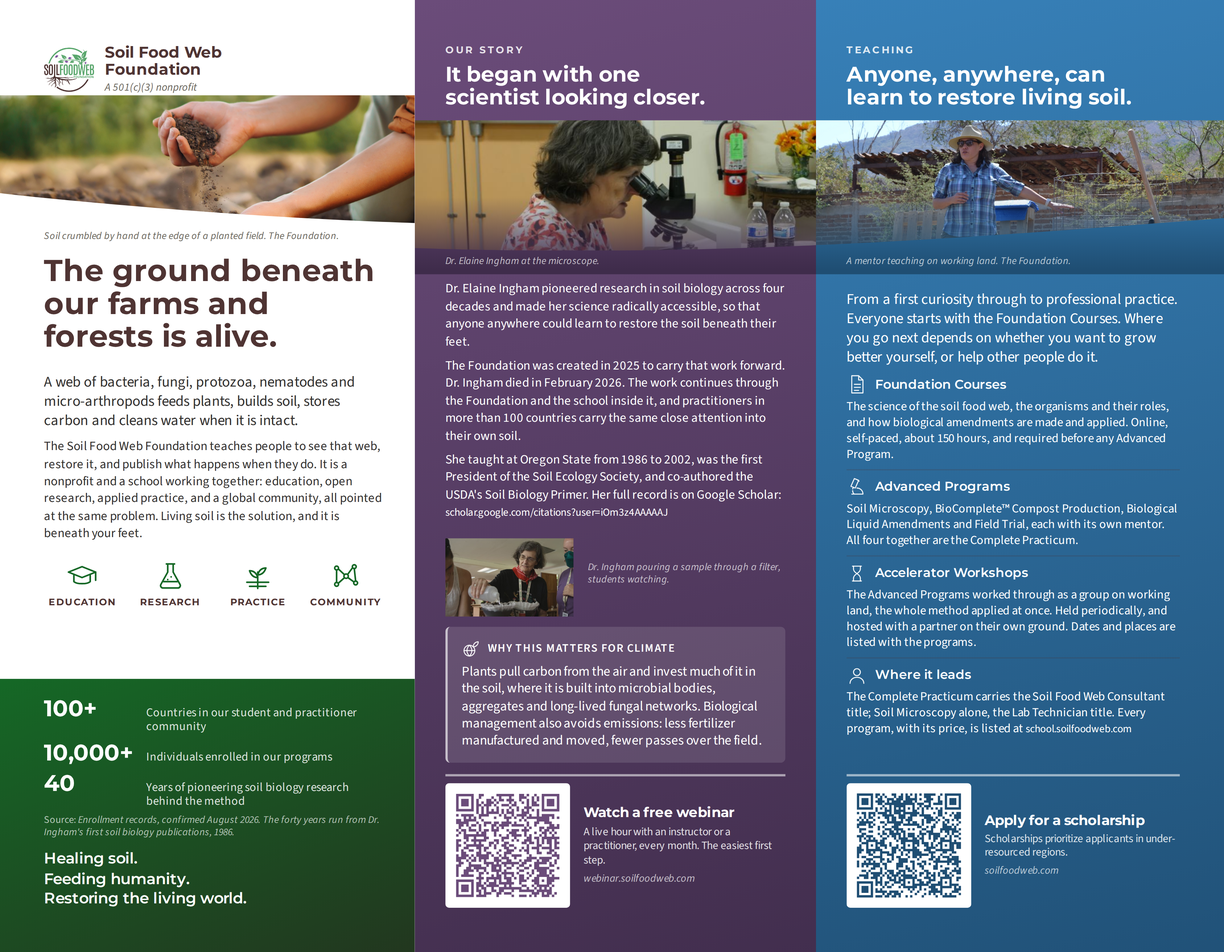
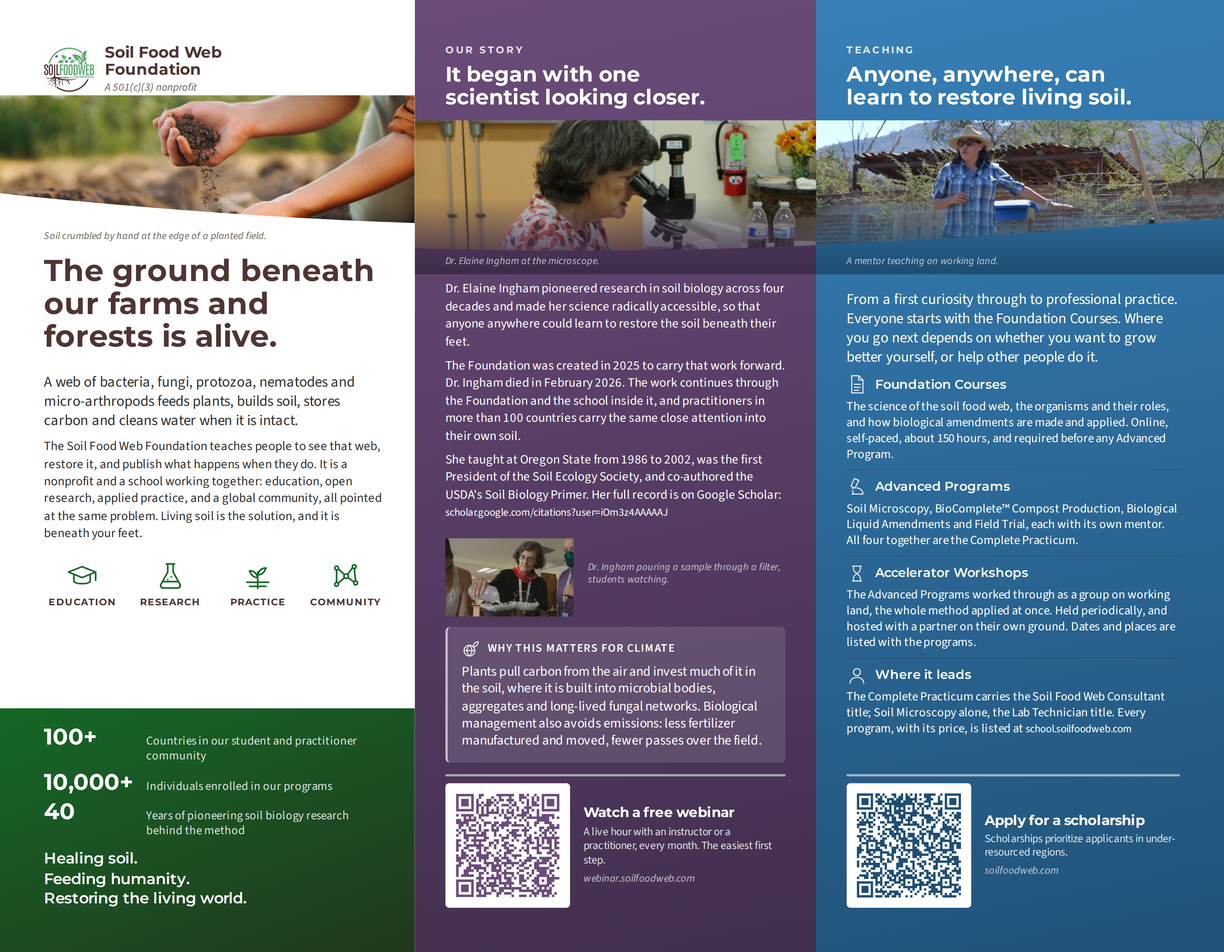
Trifold: print copy, not working copy
The spade read as a knife because the blade was a thin parallelogram on a
diagonal. Redrawn upright: a D handle, a hand's grip on the shaft, and a
broad blade standing in the ground. Judged on the green at 0.30in, which is
where it prints, not at 56px.

The card on the research panel loses its "On claims" standfirst and its
shield. The paragraph says what it says; the label was a heading for a
statement that does not need announcing.

Every source line is out of the brochure. "Enrollment records, confirmed
August 2026" is provenance for the website, where a reader can follow it
and where the rule that every number carries its source belongs. On a
printed brochure it is an internal note in public, and this goes to a
printer. The website keeps its source lines; the trifold has none.

Two other things that read as working copy rather than print went with
them. The photographs no longer credit "The Foundation" in the Foundation's
own brochure, and the research link no longer hedges with "each with a link
to its source where one exists". Joy Kaluf's credit stays, because that one
is a real third party.

All four codes decode from the 300 DPI render. No panel overflows.

Claude-Session: https://claude.ai/code/session_01Dzy7foEQfuybsE73DxJgN3

Changed region(s): [[0.0, 0.6872, 0.3422, 0.8747]]

diff --git a/Trifold Design/build/inside.html b/Trifold Design/build/inside.html
@@ -43,7 +43,7 @@
   <symbol id="i-question" viewBox="0 0 24 24"><circle cx="12" cy="12" r="9"/><path d="M9.5 9.6a2.6 2.6 0 0 1 5.1.7c0 1.7-2.5 2.2-2.5 3.9M12 17.3v.4"/></symbol>
   <symbol id="i-globe" viewBox="0 0 24 24"><circle cx="10" cy="14" r="6.6"/><path d="M3.4 14h13.2"/><path d="M10 7.4c2 1.9 3 4.1 3 6.6s-1 4.7-3 6.6c-2-1.9-3-4.1-3-6.6s1-4.7 3-6.6z"/><path d="M14.6 9.4c0-3.4 2.7-6.2 6.2-6.2 0 3.4-2.7 6.2-6.2 6.2z"/></symbol>
   <symbol id="i-hourglass" viewBox="0 0 24 24"><path d="M6.8 3.4h10.4M6.8 20.6h10.4"/><path d="M8 3.4v3.3c0 2 1.6 3.7 4 5.3 2.4-1.6 4-3.3 4-5.3V3.4"/><path d="M8 20.6v-3.3c0-2 1.6-3.7 4-5.3 2.4 1.6 4 3.3 4 5.3v3.3"/></symbol>
-  <symbol id="i-dig" viewBox="0 0 24 24"><path d="M3.6 18h16.8M6.4 21h11.2"/><path d="M17.4 7.2 12.6 12"/><path d="M16.4 3.4c1.3-1.3 3.4-1.3 4.7 0s1.3 3.4 0 4.7l-1 1-4.7-4.7z"/><path d="M13.4 10.8 9.6 14.6c-1.2 1.2-1.2 3.1 0 4.3l4.3-4.3 2.4-2.4z"/></symbol>
+  <symbol id="i-dig" viewBox="0 0 24 24"><path d="M2.8 17.2h18.4M5.6 20.4h12.8"/><path d="M12 3.2a2.1 2.1 0 0 1 2.1 2.1v.3H9.9v-.3A2.1 2.1 0 0 1 12 3.2z"/><path d="M12 5.6v6.4"/><path d="M9.1 12h5.8v3.5c0 1.6-1.2 3-2.9 4-1.7-1-2.9-2.4-2.9-4z"/><path d="M9.9 8.2h4.2M9.9 9.9h4.2"/></symbol>
 </svg>
 <div class="sheet" id="sheet">
   <div class="spread">
@@ -63,13 +63,11 @@
 
       <figure class="figure figure--full figure--fade">
         <img src="/img/Test tubes with sample_.jpg" alt="" style="object-position:50% 50%; clip-path: polygon(0% 0%, 100% 0%, 100.00% 97.93%, 98.44% 97.76%, 96.88% 97.58%, 95.31% 97.40%, 93.75% 97.21%, 92.19% 97.02%, 90.62% 96.81%, 89.06% 96.61%, 87.50% 96.39%, 85.94% 96.17%, 84.38% 95.94%, 82.81% 95.71%, 81.25% 95.47%, 79.69% 95.22%, 78.12% 94.97%, 76.56% 94.71%, 75.00% 94.44%, 73.44% 94.17%, 71.88% 93.89%, 70.31% 93.61%, 68.75% 93.32%, 67.19% 93.02%, 65.62% 92.72%, 64.06% 92.42%, 62.50% 92.10%, 60.94% 91.78%, 59.38% 91.46%, 57.81% 91.13%, 56.25% 90.79%, 54.69% 90.45%, 53.12% 90.11%, 51.56% 89.75%, 50.00% 89.39%, 48.44% 89.03%, 46.88% 88.66%, 45.31% 88.29%, 43.75% 87.91%, 42.19% 87.53%, 40.62% 87.14%, 39.06% 86.74%, 37.50% 86.34%, 35.94% 85.94%, 34.38% 85.53%, 32.81% 85.11%, 31.25% 84.69%, 29.69% 84.27%, 28.12% 83.84%, 26.56% 83.41%, 25.00% 82.97%, 23.44% 82.52%, 21.88% 82.07%, 20.31% 81.62%, 18.75% 81.16%, 17.19% 80.69%, 15.62% 80.22%, 14.06% 79.75%, 12.50% 79.26%, 10.94% 78.77%, 9.38% 78.28%, 7.81% 77.77%, 6.25% 77.26%, 4.69% 76.74%, 3.12% 76.20%, 1.56% 75.63%, 0.00% 75.00%)">
-        <figcaption class="caption">Soil samples beside the microscope. The Foundation.</figcaption>
+        <figcaption class="caption">Soil samples beside the microscope.</figcaption>
       </figure>
 
       <p class="lede">Four decades of soil biology research, practiced by
         graduates in more than 100 countries on six continents.</p>
-      <p class="source">Enrollment records, confirmed
-        August 2026.</p>
 
       <h3>What the biology does when it is intact</h3>
       <div class="pillars">
@@ -92,8 +90,7 @@
       </ul>
 
       <div class="card">
-        <p class="pull"><b><svg class="icon" aria-hidden="true"><use href="#i-shield"/></svg>On claims</b>Each mechanism we teach is established
-          soil biology. How much of any one benefit a field sees depends on
+        <p class="pull">Each mechanism we teach is established soil biology. How much of any one benefit a field sees depends on
           climate, crop, starting condition and management. We publish results by
           site, with the person and the year, and say what one site cannot
           prove.</p>
@@ -103,13 +100,13 @@
         <img src="/img/uploads/testate-amoeba-40x.jpg" alt="">
         <figcaption class="caption">Testate amoeba, 40x. Photograph: Joy
           Kaluf. A count names what is there: bacteria, fungi, protozoa,
-          nematodes, micro-arthropods.</figcaption>
+          nematodes and micro-arthropods.</figcaption>
       </figure>
       <div class="spacer"></div>
 
       <hr class="hr hr--strong">
-      <p style="font-size:8pt">Dr. Ingham's publications, item by item, each
-        with a link to its source where one exists, on the Foundation's research
+      <p style="font-size:8pt">Dr. Ingham's publications, item by item, on the
+        Foundation's research
         page:<br><span class="url">soilfoodweb.com/research</span></p>
 
     </section>
@@ -124,7 +121,7 @@
 
       <figure class="figure figure--full figure--fade">
         <img src="/img/erc-rancho-cacachilas-agro.jpg" alt="" style="object-position:50% 58%; clip-path: polygon(0% 0%, 100% 0%, 100.00% 95.74%, 98.44% 95.95%, 96.88% 96.15%, 95.31% 96.35%, 93.75% 96.55%, 92.19% 96.74%, 90.62% 96.93%, 89.06% 97.11%, 87.50% 97.29%, 85.94% 97.46%, 84.38% 97.63%, 82.81% 97.79%, 81.25% 97.94%, 79.69% 98.09%, 78.12% 98.24%, 76.56% 98.38%, 75.00% 98.51%, 73.44% 98.64%, 71.88% 98.76%, 70.31% 98.88%, 68.75% 98.99%, 67.19% 99.10%, 65.62% 99.20%, 64.06% 99.29%, 62.50% 99.38%, 60.94% 99.46%, 59.38% 99.54%, 57.81% 99.61%, 56.25% 99.68%, 54.69% 99.74%, 53.12% 99.79%, 51.56% 99.84%, 50.00% 99.88%, 48.44% 99.92%, 46.88% 99.94%, 45.31% 99.97%, 43.75% 99.98%, 42.19% 100.00%, 40.62% 100.00%, 39.06% 100.00%, 37.50% 99.99%, 35.94% 99.98%, 34.38% 99.96%, 32.81% 99.93%, 31.25% 99.90%, 29.69% 99.86%, 28.12% 99.81%, 26.56% 99.76%, 25.00% 99.70%, 23.44% 99.64%, 21.88% 99.57%, 20.31% 99.49%, 18.75% 99.41%, 17.19% 99.32%, 15.62% 99.23%, 14.06% 99.13%, 12.50% 99.02%, 10.94% 98.90%, 9.38% 98.78%, 7.81% 98.66%, 6.25% 98.52%, 4.69% 98.38%, 3.12% 98.24%, 1.56% 98.09%, 0.00% 97.93%)">
-        <figcaption class="caption">Agroecology plots at Rancho Cacachilas. The Foundation.</figcaption>
+        <figcaption class="caption">Agroecology plots at Rancho Cacachilas.</figcaption>
       </figure>
 
       <p class="lede">The biology is universal; the practice is local. Every
@@ -135,8 +132,6 @@
         quarter acre in California. Eleven of them have filmed their own work
         and published it: where they started, what they changed, and what was
         measured after, at length and in their own words.</p>
-      <p class="source">The Foundation's own case study films, counted
-        September 2026.</p>
 
       <p>The scale runs from that quarter acre to ten thousand acres of corn
         and soy in Illinois, and a public park on Governors Island in New York.
@@ -181,7 +176,7 @@
 
       <figure class="figure figure--full figure--fade">
         <img src="/img/uploads/MAR Group Photo 2.jpg" alt="" style="object-position:50% 52%; clip-path: polygon(0% 0%, 100% 0%, 100.00% 75.00%, 98.44% 75.38%, 96.88% 75.75%, 95.31% 76.13%, 93.75% 76.51%, 92.19% 76.88%, 90.62% 77.26%, 89.06% 77.63%, 87.50% 78.01%, 85.94% 78.38%, 84.38% 78.76%, 82.81% 79.13%, 81.25% 79.50%, 79.69% 79.87%, 78.12% 80.24%, 76.56% 80.61%, 75.00% 80.98%, 73.44% 81.35%, 71.88% 81.72%, 70.31% 82.08%, 68.75% 82.44%, 67.19% 82.81%, 65.62% 83.17%, 64.06% 83.52%, 62.50% 83.88%, 60.94% 84.23%, 59.38% 84.59%, 57.81% 84.94%, 56.25% 85.29%, 54.69% 85.63%, 53.12% 85.98%, 51.56% 86.32%, 50.00% 86.66%, 48.44% 86.99%, 46.88% 87.33%, 45.31% 87.66%, 43.75% 87.99%, 42.19% 88.31%, 40.62% 88.63%, 39.06% 88.95%, 37.50% 89.27%, 35.94% 89.58%, 34.38% 89.89%, 32.81% 90.20%, 31.25% 90.50%, 29.69% 90.80%, 28.12% 91.10%, 26.56% 91.39%, 25.00% 91.68%, 23.44% 91.97%, 21.88% 92.25%, 20.31% 92.52%, 18.75% 92.80%, 17.19% 93.07%, 15.62% 93.33%, 14.06% 93.59%, 12.50% 93.85%, 10.94% 94.10%, 9.38% 94.35%, 7.81% 94.59%, 6.25% 94.83%, 4.69% 95.06%, 3.12% 95.29%, 1.56% 95.52%, 0.00% 95.74%)">
-        <figcaption class="caption">A workshop group around a finished compost pile. The Foundation.</figcaption>
+        <figcaption class="caption">A workshop group around a finished compost pile.</figcaption>
       </figure>
 
       <p>Dr. Ingham built the method to be handed on. Nothing in it depends on

diff --git a/Trifold Design/build/outside.html b/Trifold Design/build/outside.html
@@ -43,7 +43,7 @@
   <symbol id="i-question" viewBox="0 0 24 24"><circle cx="12" cy="12" r="9"/><path d="M9.5 9.6a2.6 2.6 0 0 1 5.1.7c0 1.7-2.5 2.2-2.5 3.9M12 17.3v.4"/></symbol>
   <symbol id="i-globe" viewBox="0 0 24 24"><circle cx="10" cy="14" r="6.6"/><path d="M3.4 14h13.2"/><path d="M10 7.4c2 1.9 3 4.1 3 6.6s-1 4.7-3 6.6c-2-1.9-3-4.1-3-6.6s1-4.7 3-6.6z"/><path d="M14.6 9.4c0-3.4 2.7-6.2 6.2-6.2 0 3.4-2.7 6.2-6.2 6.2z"/></symbol>
   <symbol id="i-hourglass" viewBox="0 0 24 24"><path d="M6.8 3.4h10.4M6.8 20.6h10.4"/><path d="M8 3.4v3.3c0 2 1.6 3.7 4 5.3 2.4-1.6 4-3.3 4-5.3V3.4"/><path d="M8 20.6v-3.3c0-2 1.6-3.7 4-5.3 2.4 1.6 4 3.3 4 5.3v3.3"/></symbol>
-  <symbol id="i-dig" viewBox="0 0 24 24"><path d="M3.6 18h16.8M6.4 21h11.2"/><path d="M17.4 7.2 12.6 12"/><path d="M16.4 3.4c1.3-1.3 3.4-1.3 4.7 0s1.3 3.4 0 4.7l-1 1-4.7-4.7z"/><path d="M13.4 10.8 9.6 14.6c-1.2 1.2-1.2 3.1 0 4.3l4.3-4.3 2.4-2.4z"/></symbol>
+  <symbol id="i-dig" viewBox="0 0 24 24"><path d="M2.8 17.2h18.4M5.6 20.4h12.8"/><path d="M12 3.2a2.1 2.1 0 0 1 2.1 2.1v.3H9.9v-.3A2.1 2.1 0 0 1 12 3.2z"/><path d="M12 5.6v6.4"/><path d="M9.1 12h5.8v3.5c0 1.6-1.2 3-2.9 4-1.7-1-2.9-2.4-2.9-4z"/><path d="M9.9 8.2h4.2M9.9 9.9h4.2"/></symbol>
 </svg>
 <div class="sheet" id="sheet">
   <div class="spread">
@@ -61,7 +61,7 @@
 
       <figure class="figure figure--full figure--fade">
         <img src="/img/handling-loose-soil.jpg" alt="" style="object-position:50% 52%; clip-path: polygon(0% 0%, 100% 0%, 100.00% 97.93%, 98.44% 97.76%, 96.88% 97.58%, 95.31% 97.40%, 93.75% 97.21%, 92.19% 97.02%, 90.62% 96.81%, 89.06% 96.61%, 87.50% 96.39%, 85.94% 96.17%, 84.38% 95.94%, 82.81% 95.71%, 81.25% 95.47%, 79.69% 95.22%, 78.12% 94.97%, 76.56% 94.71%, 75.00% 94.44%, 73.44% 94.17%, 71.88% 93.89%, 70.31% 93.61%, 68.75% 93.32%, 67.19% 93.02%, 65.62% 92.72%, 64.06% 92.42%, 62.50% 92.10%, 60.94% 91.78%, 59.38% 91.46%, 57.81% 91.13%, 56.25% 90.79%, 54.69% 90.45%, 53.12% 90.11%, 51.56% 89.75%, 50.00% 89.39%, 48.44% 89.03%, 46.88% 88.66%, 45.31% 88.29%, 43.75% 87.91%, 42.19% 87.53%, 40.62% 87.14%, 39.06% 86.74%, 37.50% 86.34%, 35.94% 85.94%, 34.38% 85.53%, 32.81% 85.11%, 31.25% 84.69%, 29.69% 84.27%, 28.12% 83.84%, 26.56% 83.41%, 25.00% 82.97%, 23.44% 82.52%, 21.88% 82.07%, 20.31% 81.62%, 18.75% 81.16%, 17.19% 80.69%, 15.62% 80.22%, 14.06% 79.75%, 12.50% 79.26%, 10.94% 78.77%, 9.38% 78.28%, 7.81% 77.77%, 6.25% 77.26%, 4.69% 76.74%, 3.12% 76.20%, 1.56% 75.63%, 0.00% 75.00%)">
-        <figcaption class="caption">Soil crumbled by hand at the edge of a planted field. The Foundation.</figcaption>
+        <figcaption class="caption">Soil crumbled by hand at the edge of a planted field.</figcaption>
       </figure>
 
       <h1>The ground beneath our farms and forests is alive.</h1>
@@ -91,8 +91,6 @@
           <div class="row"><div class="n">10,000+</div><div class="l">Individuals enrolled in our programs</div></div>
           <div class="row"><div class="n">40</div><div class="l">Years of pioneering soil biology research behind the method</div></div>
         </div>
-        <p class="source">Enrollment records, confirmed August 2026. The forty
-          years run from Dr. Ingham's first soil biology publications, 1986.</p>
         <p class="tagline">Healing soil.<br>Feeding humanity.<br>Restoring the living world.</p>
       </div>
 
@@ -163,7 +161,7 @@
 
       <figure class="figure figure--full figure--fade">
         <img src="/img/uploads/Loida Teaching 3.JPG" alt="" style="object-position:50% 22%; clip-path: polygon(0% 0%, 100% 0%, 100.00% 75.00%, 98.44% 75.38%, 96.88% 75.75%, 95.31% 76.13%, 93.75% 76.51%, 92.19% 76.88%, 90.62% 77.26%, 89.06% 77.63%, 87.50% 78.01%, 85.94% 78.38%, 84.38% 78.76%, 82.81% 79.13%, 81.25% 79.50%, 79.69% 79.87%, 78.12% 80.24%, 76.56% 80.61%, 75.00% 80.98%, 73.44% 81.35%, 71.88% 81.72%, 70.31% 82.08%, 68.75% 82.44%, 67.19% 82.81%, 65.62% 83.17%, 64.06% 83.52%, 62.50% 83.88%, 60.94% 84.23%, 59.38% 84.59%, 57.81% 84.94%, 56.25% 85.29%, 54.69% 85.63%, 53.12% 85.98%, 51.56% 86.32%, 50.00% 86.66%, 48.44% 86.99%, 46.88% 87.33%, 45.31% 87.66%, 43.75% 87.99%, 42.19% 88.31%, 40.62% 88.63%, 39.06% 88.95%, 37.50% 89.27%, 35.94% 89.58%, 34.38% 89.89%, 32.81% 90.20%, 31.25% 90.50%, 29.69% 90.80%, 28.12% 91.10%, 26.56% 91.39%, 25.00% 91.68%, 23.44% 91.97%, 21.88% 92.25%, 20.31% 92.52%, 18.75% 92.80%, 17.19% 93.07%, 15.62% 93.33%, 14.06% 93.59%, 12.50% 93.85%, 10.94% 94.10%, 9.38% 94.35%, 7.81% 94.59%, 6.25% 94.83%, 4.69% 95.06%, 3.12% 95.29%, 1.56% 95.52%, 0.00% 95.74%)">
-        <figcaption class="caption">A mentor teaching on working land. The Foundation.</figcaption>
+        <figcaption class="caption">A mentor teaching on working land.</figcaption>
       </figure>
 
       <p class="lede">From a first curiosity through to

diff --git a/about.html b/about.html
@@ -56,7 +56,7 @@
   <symbol id="i-question" viewBox="0 0 24 24"><circle cx="12" cy="12" r="9"/><path d="M9.5 9.6a2.6 2.6 0 0 1 5.1.7c0 1.7-2.5 2.2-2.5 3.9M12 17.3v.4"/></symbol>
   <symbol id="i-globe" viewBox="0 0 24 24"><circle cx="10" cy="14" r="6.6"/><path d="M3.4 14h13.2"/><path d="M10 7.4c2 1.9 3 4.1 3 6.6s-1 4.7-3 6.6c-2-1.9-3-4.1-3-6.6s1-4.7 3-6.6z"/><path d="M14.6 9.4c0-3.4 2.7-6.2 6.2-6.2 0 3.4-2.7 6.2-6.2 6.2z"/></symbol>
   <symbol id="i-hourglass" viewBox="0 0 24 24"><path d="M6.8 3.4h10.4M6.8 20.6h10.4"/><path d="M8 3.4v3.3c0 2 1.6 3.7 4 5.3 2.4-1.6 4-3.3 4-5.3V3.4"/><path d="M8 20.6v-3.3c0-2 1.6-3.7 4-5.3 2.4 1.6 4 3.3 4 5.3v3.3"/></symbol>
-  <symbol id="i-dig" viewBox="0 0 24 24"><path d="M3.6 18h16.8M6.4 21h11.2"/><path d="M17.4 7.2 12.6 12"/><path d="M16.4 3.4c1.3-1.3 3.4-1.3 4.7 0s1.3 3.4 0 4.7l-1 1-4.7-4.7z"/><path d="M13.4 10.8 9.6 14.6c-1.2 1.2-1.2 3.1 0 4.3l4.3-4.3 2.4-2.4z"/></symbol>
+  <symbol id="i-dig" viewBox="0 0 24 24"><path d="M2.8 17.2h18.4M5.6 20.4h12.8"/><path d="M12 3.2a2.1 2.1 0 0 1 2.1 2.1v.3H9.9v-.3A2.1 2.1 0 0 1 12 3.2z"/><path d="M12 5.6v6.4"/><path d="M9.1 12h5.8v3.5c0 1.6-1.2 3-2.9 4-1.7-1-2.9-2.4-2.9-4z"/><path d="M9.9 8.2h4.2M9.9 9.9h4.2"/></symbol>
 </svg>
 
 <!-- ============ UTILITY BAR + HEADER (every page) ============ -->

diff --git a/calendar.html b/calendar.html
@@ -56,7 +56,7 @@
   <symbol id="i-question" viewBox="0 0 24 24"><circle cx="12" cy="12" r="9"/><path d="M9.5 9.6a2.6 2.6 0 0 1 5.1.7c0 1.7-2.5 2.2-2.5 3.9M12 17.3v.4"/></symbol>
   <symbol id="i-globe" viewBox="0 0 24 24"><circle cx="10" cy="14" r="6.6"/><path d="M3.4 14h13.2"/><path d="M10 7.4c2 1.9 3 4.1 3 6.6s-1 4.7-3 6.6c-2-1.9-3-4.1-3-6.6s1-4.7 3-6.6z"/><path d="M14.6 9.4c0-3.4 2.7-6.2 6.2-6.2 0 3.4-2.7 6.2-6.2 6.2z"/></symbol>
   <symbol id="i-hourglass" viewBox="0 0 24 24"><path d="M6.8 3.4h10.4M6.8 20.6h10.4"/><path d="M8 3.4v3.3c0 2 1.6 3.7 4 5.3 2.4-1.6 4-3.3 4-5.3V3.4"/><path d="M8 20.6v-3.3c0-2 1.6-3.7 4-5.3 2.4 1.6 4 3.3 4 5.3v3.3"/></symbol>
-  <symbol id="i-dig" viewBox="0 0 24 24"><path d="M3.6 18h16.8M6.4 21h11.2"/><path d="M17.4 7.2 12.6 12"/><path d="M16.4 3.4c1.3-1.3 3.4-1.3 4.7 0s1.3 3.4 0 4.7l-1 1-4.7-4.7z"/><path d="M13.4 10.8 9.6 14.6c-1.2 1.2-1.2 3.1 0 4.3l4.3-4.3 2.4-2.4z"/></symbol>
+  <symbol id="i-dig" viewBox="0 0 24 24"><path d="M2.8 17.2h18.4M5.6 20.4h12.8"/><path d="M12 3.2a2.1 2.1 0 0 1 2.1 2.1v.3H9.9v-.3A2.1 2.1 0 0 1 12 3.2z"/><path d="M12 5.6v6.4"/><path d="M9.1 12h5.8v3.5c0 1.6-1.2 3-2.9 4-1.7-1-2.9-2.4-2.9-4z"/><path d="M9.9 8.2h4.2M9.9 9.9h4.2"/></symbol>
 </svg>
 
 <!-- ============ UTILITY BAR + HEADER (every page) ============ -->

diff --git a/community.html b/community.html
@@ -56,7 +56,7 @@
   <symbol id="i-question" viewBox="0 0 24 24"><circle cx="12" cy="12" r="9"/><path d="M9.5 9.6a2.6 2.6 0 0 1 5.1.7c0 1.7-2.5 2.2-2.5 3.9M12 17.3v.4"/></symbol>
   <symbol id="i-globe" viewBox="0 0 24 24"><circle cx="10" cy="14" r="6.6"/><path d="M3.4 14h13.2"/><path d="M10 7.4c2 1.9 3 4.1 3 6.6s-1 4.7-3 6.6c-2-1.9-3-4.1-3-6.6s1-4.7 3-6.6z"/><path d="M14.6 9.4c0-3.4 2.7-6.2 6.2-6.2 0 3.4-2.7 6.2-6.2 6.2z"/></symbol>
   <symbol id="i-hourglass" viewBox="0 0 24 24"><path d="M6.8 3.4h10.4M6.8 20.6h10.4"/><path d="M8 3.4v3.3c0 2 1.6 3.7 4 5.3 2.4-1.6 4-3.3 4-5.3V3.4"/><path d="M8 20.6v-3.3c0-2 1.6-3.7 4-5.3 2.4 1.6 4 3.3 4 5.3v3.3"/></symbol>
-  <symbol id="i-dig" viewBox="0 0 24 24"><path d="M3.6 18h16.8M6.4 21h11.2"/><path d="M17.4 7.2 12.6 12"/><path d="M16.4 3.4c1.3-1.3 3.4-1.3 4.7 0s1.3 3.4 0 4.7l-1 1-4.7-4.7z"/><path d="M13.4 10.8 9.6 14.6c-1.2 1.2-1.2 3.1 0 4.3l4.3-4.3 2.4-2.4z"/></symbol>
+  <symbol id="i-dig" viewBox="0 0 24 24"><path d="M2.8 17.2h18.4M5.6 20.4h12.8"/><path d="M12 3.2a2.1 2.1 0 0 1 2.1 2.1v.3H9.9v-.3A2.1 2.1 0 0 1 12 3.2z"/><path d="M12 5.6v6.4"/><path d="M9.1 12h5.8v3.5c0 1.6-1.2 3-2.9 4-1.7-1-2.9-2.4-2.9-4z"/><path d="M9.9 8.2h4.2M9.9 9.9h4.2"/></symbol>
 </svg>
 
 <!-- ============ UTILITY BAR + HEADER (every page) ============ -->

diff --git a/donate.html b/donate.html
@@ -56,7 +56,7 @@
   <symbol id="i-question" viewBox="0 0 24 24"><circle cx="12" cy="12" r="9"/><path d="M9.5 9.6a2.6 2.6 0 0 1 5.1.7c0 1.7-2.5 2.2-2.5 3.9M12 17.3v.4"/></symbol>
   <symbol id="i-globe" viewBox="0 0 24 24"><circle cx="10" cy="14" r="6.6"/><path d="M3.4 14h13.2"/><path d="M10 7.4c2 1.9 3 4.1 3 6.6s-1 4.7-3 6.6c-2-1.9-3-4.1-3-6.6s1-4.7 3-6.6z"/><path d="M14.6 9.4c0-3.4 2.7-6.2 6.2-6.2 0 3.4-2.7 6.2-6.2 6.2z"/></symbol>
   <symbol id="i-hourglass" viewBox="0 0 24 24"><path d="M6.8 3.4h10.4M6.8 20.6h10.4"/><path d="M8 3.4v3.3c0 2 1.6 3.7 4 5.3 2.4-1.6 4-3.3 4-5.3V3.4"/><path d="M8 20.6v-3.3c0-2 1.6-3.7 4-5.3 2.4 1.6 4 3.3 4 5.3v3.3"/></symbol>
-  <symbol id="i-dig" viewBox="0 0 24 24"><path d="M3.6 18h16.8M6.4 21h11.2"/><path d="M17.4 7.2 12.6 12"/><path d="M16.4 3.4c1.3-1.3 3.4-1.3 4.7 0s1.3 3.4 0 4.7l-1 1-4.7-4.7z"/><path d="M13.4 10.8 9.6 14.6c-1.2 1.2-1.2 3.1 0 4.3l4.3-4.3 2.4-2.4z"/></symbol>
+  <symbol id="i-dig" viewBox="0 0 24 24"><path d="M2.8 17.2h18.4M5.6 20.4h12.8"/><path d="M12 3.2a2.1 2.1 0 0 1 2.1 2.1v.3H9.9v-.3A2.1 2.1 0 0 1 12 3.2z"/><path d="M12 5.6v6.4"/><path d="M9.1 12h5.8v3.5c0 1.6-1.2 3-2.9 4-1.7-1-2.9-2.4-2.9-4z"/><path d="M9.9 8.2h4.2M9.9 9.9h4.2"/></symbol>
 </svg>
 
 <!-- ============ UTILITY BAR + HEADER (every page) ============ -->

diff --git a/index.html b/index.html
@@ -56,7 +56,7 @@
   <symbol id="i-question" viewBox="0 0 24 24"><circle cx="12" cy="12" r="9"/><path d="M9.5 9.6a2.6 2.6 0 0 1 5.1.7c0 1.7-2.5 2.2-2.5 3.9M12 17.3v.4"/></symbol>
   <symbol id="i-globe" viewBox="0 0 24 24"><circle cx="10" cy="14" r="6.6"/><path d="M3.4 14h13.2"/><path d="M10 7.4c2 1.9 3 4.1 3 6.6s-1 4.7-3 6.6c-2-1.9-3-4.1-3-6.6s1-4.7 3-6.6z"/><path d="M14.6 9.4c0-3.4 2.7-6.2 6.2-6.2 0 3.4-2.7 6.2-6.2 6.2z"/></symbol>
   <symbol id="i-hourglass" viewBox="0 0 24 24"><path d="M6.8 3.4h10.4M6.8 20.6h10.4"/><path d="M8 3.4v3.3c0 2 1.6 3.7 4 5.3 2.4-1.6 4-3.3 4-5.3V3.4"/><path d="M8 20.6v-3.3c0-2 1.6-3.7 4-5.3 2.4 1.6 4 3.3 4 5.3v3.3"/></symbol>
-  <symbol id="i-dig" viewBox="0 0 24 24"><path d="M3.6 18h16.8M6.4 21h11.2"/><path d="M17.4 7.2 12.6 12"/><path d="M16.4 3.4c1.3-1.3 3.4-1.3 4.7 0s1.3 3.4 0 4.7l-1 1-4.7-4.7z"/><path d="M13.4 10.8 9.6 14.6c-1.2 1.2-1.2 3.1 0 4.3l4.3-4.3 2.4-2.4z"/></symbol>
+  <symbol id="i-dig" viewBox="0 0 24 24"><path d="M2.8 17.2h18.4M5.6 20.4h12.8"/><path d="M12 3.2a2.1 2.1 0 0 1 2.1 2.1v.3H9.9v-.3A2.1 2.1 0 0 1 12 3.2z"/><path d="M12 5.6v6.4"/><path d="M9.1 12h5.8v3.5c0 1.6-1.2 3-2.9 4-1.7-1-2.9-2.4-2.9-4z"/><path d="M9.9 8.2h4.2M9.9 9.9h4.2"/></symbol>
 </svg>
 
 <!-- ============ UTILITY BAR + HEADER (every page) ============ -->

diff --git a/learn-scholarships.html b/learn-scholarships.html
@@ -56,7 +56,7 @@
   <symbol id="i-question" viewBox="0 0 24 24"><circle cx="12" cy="12" r="9"/><path d="M9.5 9.6a2.6 2.6 0 0 1 5.1.7c0 1.7-2.5 2.2-2.5 3.9M12 17.3v.4"/></symbol>
   <symbol id="i-globe" viewBox="0 0 24 24"><circle cx="10" cy="14" r="6.6"/><path d="M3.4 14h13.2"/><path d="M10 7.4c2 1.9 3 4.1 3 6.6s-1 4.7-3 6.6c-2-1.9-3-4.1-3-6.6s1-4.7 3-6.6z"/><path d="M14.6 9.4c0-3.4 2.7-6.2 6.2-6.2 0 3.4-2.7 6.2-6.2 6.2z"/></symbol>
   <symbol id="i-hourglass" viewBox="0 0 24 24"><path d="M6.8 3.4h10.4M6.8 20.6h10.4"/><path d="M8 3.4v3.3c0 2 1.6 3.7 4 5.3 2.4-1.6 4-3.3 4-5.3V3.4"/><path d="M8 20.6v-3.3c0-2 1.6-3.7 4-5.3 2.4 1.6 4 3.3 4 5.3v3.3"/></symbol>
-  <symbol id="i-dig" viewBox="0 0 24 24"><path d="M3.6 18h16.8M6.4 21h11.2"/><path d="M17.4 7.2 12.6 12"/><path d="M16.4 3.4c1.3-1.3 3.4-1.3 4.7 0s1.3 3.4 0 4.7l-1 1-4.7-4.7z"/><path d="M13.4 10.8 9.6 14.6c-1.2 1.2-1.2 3.1 0 4.3l4.3-4.3 2.4-2.4z"/></symbol>
+  <symbol id="i-dig" viewBox="0 0 24 24"><path d="M2.8 17.2h18.4M5.6 20.4h12.8"/><path d="M12 3.2a2.1 2.1 0 0 1 2.1 2.1v.3H9.9v-.3A2.1 2.1 0 0 1 12 3.2z"/><path d="M12 5.6v6.4"/><path d="M9.1 12h5.8v3.5c0 1.6-1.2 3-2.9 4-1.7-1-2.9-2.4-2.9-4z"/><path d="M9.9 8.2h4.2M9.9 9.9h4.2"/></symbol>
 </svg>
 
 <!-- ============ UTILITY BAR + HEADER (every page) ============ -->

diff --git a/learn-webinars.html b/learn-webinars.html
@@ -56,7 +56,7 @@
   <symbol id="i-question" viewBox="0 0 24 24"><circle cx="12" cy="12" r="9"/><path d="M9.5 9.6a2.6 2.6 0 0 1 5.1.7c0 1.7-2.5 2.2-2.5 3.9M12 17.3v.4"/></symbol>
   <symbol id="i-globe" viewBox="0 0 24 24"><circle cx="10" cy="14" r="6.6"/><path d="M3.4 14h13.2"/><path d="M10 7.4c2 1.9 3 4.1 3 6.6s-1 4.7-3 6.6c-2-1.9-3-4.1-3-6.6s1-4.7 3-6.6z"/><path d="M14.6 9.4c0-3.4 2.7-6.2 6.2-6.2 0 3.4-2.7 6.2-6.2 6.2z"/></symbol>
   <symbol id="i-hourglass" viewBox="0 0 24 24"><path d="M6.8 3.4h10.4M6.8 20.6h10.4"/><path d="M8 3.4v3.3c0 2 1.6 3.7 4 5.3 2.4-1.6 4-3.3 4-5.3V3.4"/><path d="M8 20.6v-3.3c0-2 1.6-3.7 4-5.3 2.4 1.6 4 3.3 4 5.3v3.3"/></symbol>
-  <symbol id="i-dig" viewBox="0 0 24 24"><path d="M3.6 18h16.8M6.4 21h11.2"/><path d="M17.4 7.2 12.6 12"/><path d="M16.4 3.4c1.3-1.3 3.4-1.3 4.7 0s1.3 3.4 0 4.7l-1 1-4.7-4.7z"/><path d="M13.4 10.8 9.6 14.6c-1.2 1.2-1.2 3.1 0 4.3l4.3-4.3 2.4-2.4z"/></symbol>
+  <symbol id="i-dig" viewBox="0 0 24 24"><path d="M2.8 17.2h18.4M5.6 20.4h12.8"/><path d="M12 3.2a2.1 2.1 0 0 1 2.1 2.1v.3H9.9v-.3A2.1 2.1 0 0 1 12 3.2z"/><path d="M12 5.6v6.4"/><path d="M9.1 12h5.8v3.5c0 1.6-1.2 3-2.9 4-1.7-1-2.9-2.4-2.9-4z"/><path d="M9.9 8.2h4.2M9.9 9.9h4.2"/></symbol>
 </svg>
 
 <!-- ============ UTILITY BAR + HEADER (every page) ============ -->

diff --git a/learn.html b/learn.html
@@ -56,7 +56,7 @@
   <symbol id="i-question" viewBox="0 0 24 24"><circle cx="12" cy="12" r="9"/><path d="M9.5 9.6a2.6 2.6 0 0 1 5.1.7c0 1.7-2.5 2.2-2.5 3.9M12 17.3v.4"/></symbol>
   <symbol id="i-globe" viewBox="0 0 24 24"><circle cx="10" cy="14" r="6.6"/><path d="M3.4 14h13.2"/><path d="M10 7.4c2 1.9 3 4.1 3 6.6s-1 4.7-3 6.6c-2-1.9-3-4.1-3-6.6s1-4.7 3-6.6z"/><path d="M14.6 9.4c0-3.4 2.7-6.2 6.2-6.2 0 3.4-2.7 6.2-6.2 6.2z"/></symbol>
   <symbol id="i-hourglass" viewBox="0 0 24 24"><path d="M6.8 3.4h10.4M6.8 20.6h10.4"/><path d="M8 3.4v3.3c0 2 1.6 3.7 4 5.3 2.4-1.6 4-3.3 4-5.3V3.4"/><path d="M8 20.6v-3.3c0-2 1.6-3.7 4-5.3 2.4 1.6 4 3.3 4 5.3v3.3"/></symbol>
-  <symbol id="i-dig" viewBox="0 0 24 24"><path d="M3.6 18h16.8M6.4 21h11.2"/><path d="M17.4 7.2 12.6 12"/><path d="M16.4 3.4c1.3-1.3 3.4-1.3 4.7 0s1.3 3.4 0 4.7l-1 1-4.7-4.7z"/><path d="M13.4 10.8 9.6 14.6c-1.2 1.2-1.2 3.1 0 4.3l4.3-4.3 2.4-2.4z"/></symbol>
+  <symbol id="i-dig" viewBox="0 0 24 24"><path d="M2.8 17.2h18.4M5.6 20.4h12.8"/><path d="M12 3.2a2.1 2.1 0 0 1 2.1 2.1v.3H9.9v-.3A2.1 2.1 0 0 1 12 3.2z"/><path d="M12 5.6v6.4"/><path d="M9.1 12h5.8v3.5c0 1.6-1.2 3-2.9 4-1.7-1-2.9-2.4-2.9-4z"/><path d="M9.9 8.2h4.2M9.9 9.9h4.2"/></symbol>
 </svg>
 
 <!-- ============ UTILITY BAR + HEADER (every page) ============ -->

diff --git a/login.html b/login.html
@@ -56,7 +56,7 @@
   <symbol id="i-question" viewBox="0 0 24 24"><circle cx="12" cy="12" r="9"/><path d="M9.5 9.6a2.6 2.6 0 0 1 5.1.7c0 1.7-2.5 2.2-2.5 3.9M12 17.3v.4"/></symbol>
   <symbol id="i-globe" viewBox="0 0 24 24"><circle cx="10" cy="14" r="6.6"/><path d="M3.4 14h13.2"/><path d="M10 7.4c2 1.9 3 4.1 3 6.6s-1 4.7-3 6.6c-2-1.9-3-4.1-3-6.6s1-4.7 3-6.6z"/><path d="M14.6 9.4c0-3.4 2.7-6.2 6.2-6.2 0 3.4-2.7 6.2-6.2 6.2z"/></symbol>
   <symbol id="i-hourglass" viewBox="0 0 24 24"><path d="M6.8 3.4h10.4M6.8 20.6h10.4"/><path d="M8 3.4v3.3c0 2 1.6 3.7 4 5.3 2.4-1.6 4-3.3 4-5.3V3.4"/><path d="M8 20.6v-3.3c0-2 1.6-3.7 4-5.3 2.4 1.6 4 3.3 4 5.3v3.3"/></symbol>
-  <symbol id="i-dig" viewBox="0 0 24 24"><path d="M3.6 18h16.8M6.4 21h11.2"/><path d="M17.4 7.2 12.6 12"/><path d="M16.4 3.4c1.3-1.3 3.4-1.3 4.7 0s1.3 3.4 0 4.7l-1 1-4.7-4.7z"/><path d="M13.4 10.8 9.6 14.6c-1.2 1.2-1.2 3.1 0 4.3l4.3-4.3 2.4-2.4z"/></symbol>
+  <symbol id="i-dig" viewBox="0 0 24 24"><path d="M2.8 17.2h18.4M5.6 20.4h12.8"/><path d="M12 3.2a2.1 2.1 0 0 1 2.1 2.1v.3H9.9v-.3A2.1 2.1 0 0 1 12 3.2z"/><path d="M12 5.6v6.4"/><path d="M9.1 12h5.8v3.5c0 1.6-1.2 3-2.9 4-1.7-1-2.9-2.4-2.9-4z"/><path d="M9.9 8.2h4.2M9.9 9.9h4.2"/></symbol>
 </svg>
 
 <!-- ============ UTILITY BAR + HEADER (every page) ============ -->

diff --git a/news.html b/news.html
@@ -56,7 +56,7 @@
   <symbol id="i-question" viewBox="0 0 24 24"><circle cx="12" cy="12" r="9"/><path d="M9.5 9.6a2.6 2.6 0 0 1 5.1.7c0 1.7-2.5 2.2-2.5 3.9M12 17.3v.4"/></symbol>
   <symbol id="i-globe" viewBox="0 0 24 24"><circle cx="10" cy="14" r="6.6"/><path d="M3.4 14h13.2"/><path d="M10 7.4c2 1.9 3 4.1 3 6.6s-1 4.7-3 6.6c-2-1.9-3-4.1-3-6.6s1-4.7 3-6.6z"/><path d="M14.6 9.4c0-3.4 2.7-6.2 6.2-6.2 0 3.4-2.7 6.2-6.2 6.2z"/></symbol>
   <symbol id="i-hourglass" viewBox="0 0 24 24"><path d="M6.8 3.4h10.4M6.8 20.6h10.4"/><path d="M8 3.4v3.3c0 2 1.6 3.7 4 5.3 2.4-1.6 4-3.3 4-5.3V3.4"/><path d="M8 20.6v-3.3c0-2 1.6-3.7 4-5.3 2.4 1.6 4 3.3 4 5.3v3.3"/></symbol>
-  <symbol id="i-dig" viewBox="0 0 24 24"><path d="M3.6 18h16.8M6.4 21h11.2"/><path d="M17.4 7.2 12.6 12"/><path d="M16.4 3.4c1.3-1.3 3.4-1.3 4.7 0s1.3 3.4 0 4.7l-1 1-4.7-4.7z"/><path d="M13.4 10.8 9.6 14.6c-1.2 1.2-1.2 3.1 0 4.3l4.3-4.3 2.4-2.4z"/></symbol>
+  <symbol id="i-dig" viewBox="0 0 24 24"><path d="M2.8 17.2h18.4M5.6 20.4h12.8"/><path d="M12 3.2a2.1 2.1 0 0 1 2.1 2.1v.3H9.9v-.3A2.1 2.1 0 0 1 12 3.2z"/><path d="M12 5.6v6.4"/><path d="M9.1 12h5.8v3.5c0 1.6-1.2 3-2.9 4-1.7-1-2.9-2.4-2.9-4z"/><path d="M9.9 8.2h4.2M9.9 9.9h4.2"/></symbol>
 </svg>
 
 <!-- ============ UTILITY BAR + HEADER (every page) ============ -->
